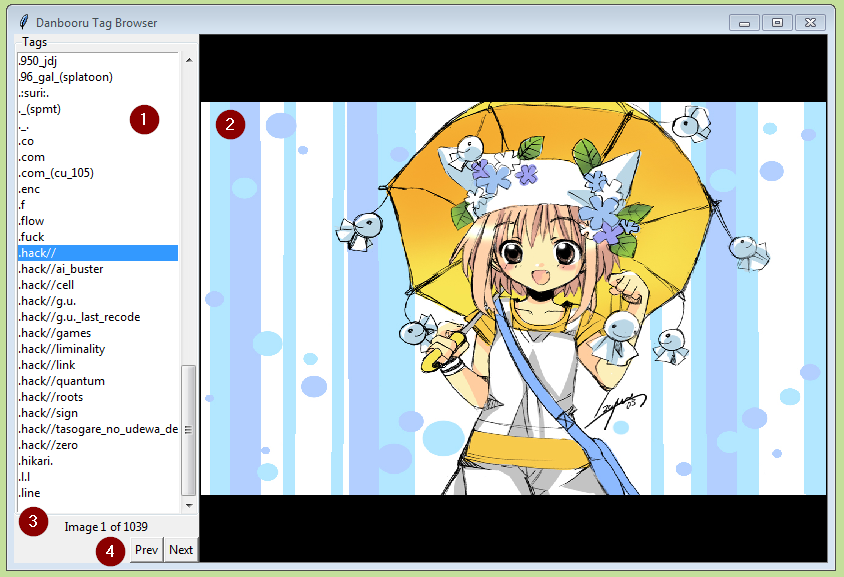
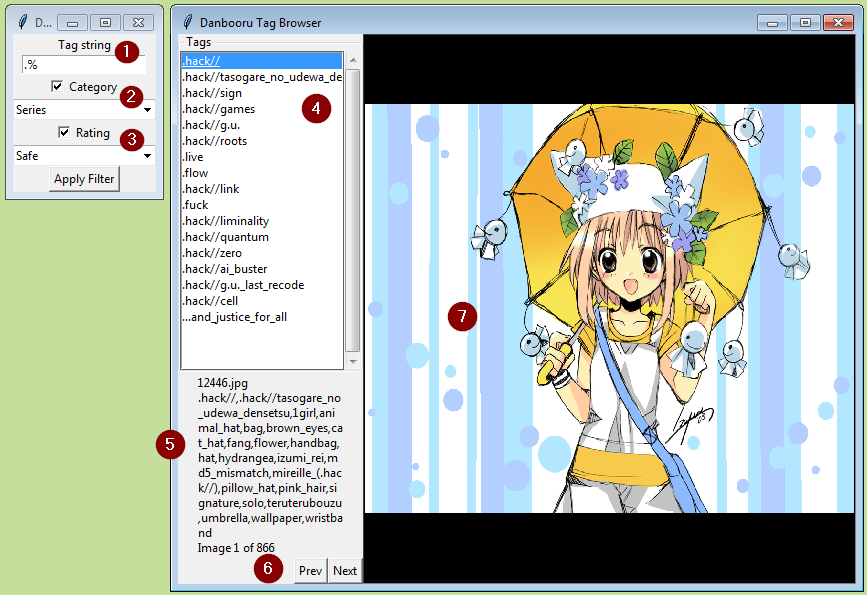
Update screen cap, readme

diff --git a/browser/README.md b/browser/README.md
@@ -10,18 +10,26 @@ To use:
 1. Edit the `IMAGES_BASE` value in `tagview.py` to the path of the image set
 2. execute `python tagview.py`
 
-### Screen Cap as of 20191211
+### Screen Cap as of 20191226
 
 ![annotated screen cap](screencap_anno.png)
 
-1. A list of tags to select from.
-2. Shows an image which has the selected tag. The image is currently sized to the view area, preserving aspect ratio.
-3. The count and position in the set of images with the selected tag.
-4. Buttons to move through the set of images.
+1. The filter window. This entry allows you to filter by the tag name. Wildcards are currently
+   using database syntax (i.e. '%' is wildcard, not '*').
+2. This entry allows you to filter tags by their category (artist, character, etc)
+3. This entry allows you to filter images by their rating.
+4. The list of filtered tags to select from.
+5. Information about the image: the filename, and the image tags.
+6. The count and position in the set of images with the selected tag; buttons to move through the set of images.
+7. Shows the current image with the selected tag. The image is currently sized to the view area, preserving aspect ratio.
 
-#### TODO (as of 20191211):
+#### TODO (as of 20191226):
 - view more than the first 100 tags
-- filtering / searching tags
 - scrollable image view (when image is very large)
-- show the tag category (artist / copyright / etc)
-
+- show the tag category in the list (artist / character / etc)
+- the image taglist needs to be more readable, a fixed size, and with a scrollbar
+- add means to "delete" an image
+- more tag string filter clauses; AND / OR
+- ability to filter by 'NOT'
+- ability to generate a file containing the paths to all images with the selected tag
+- animate GIF and APNG
